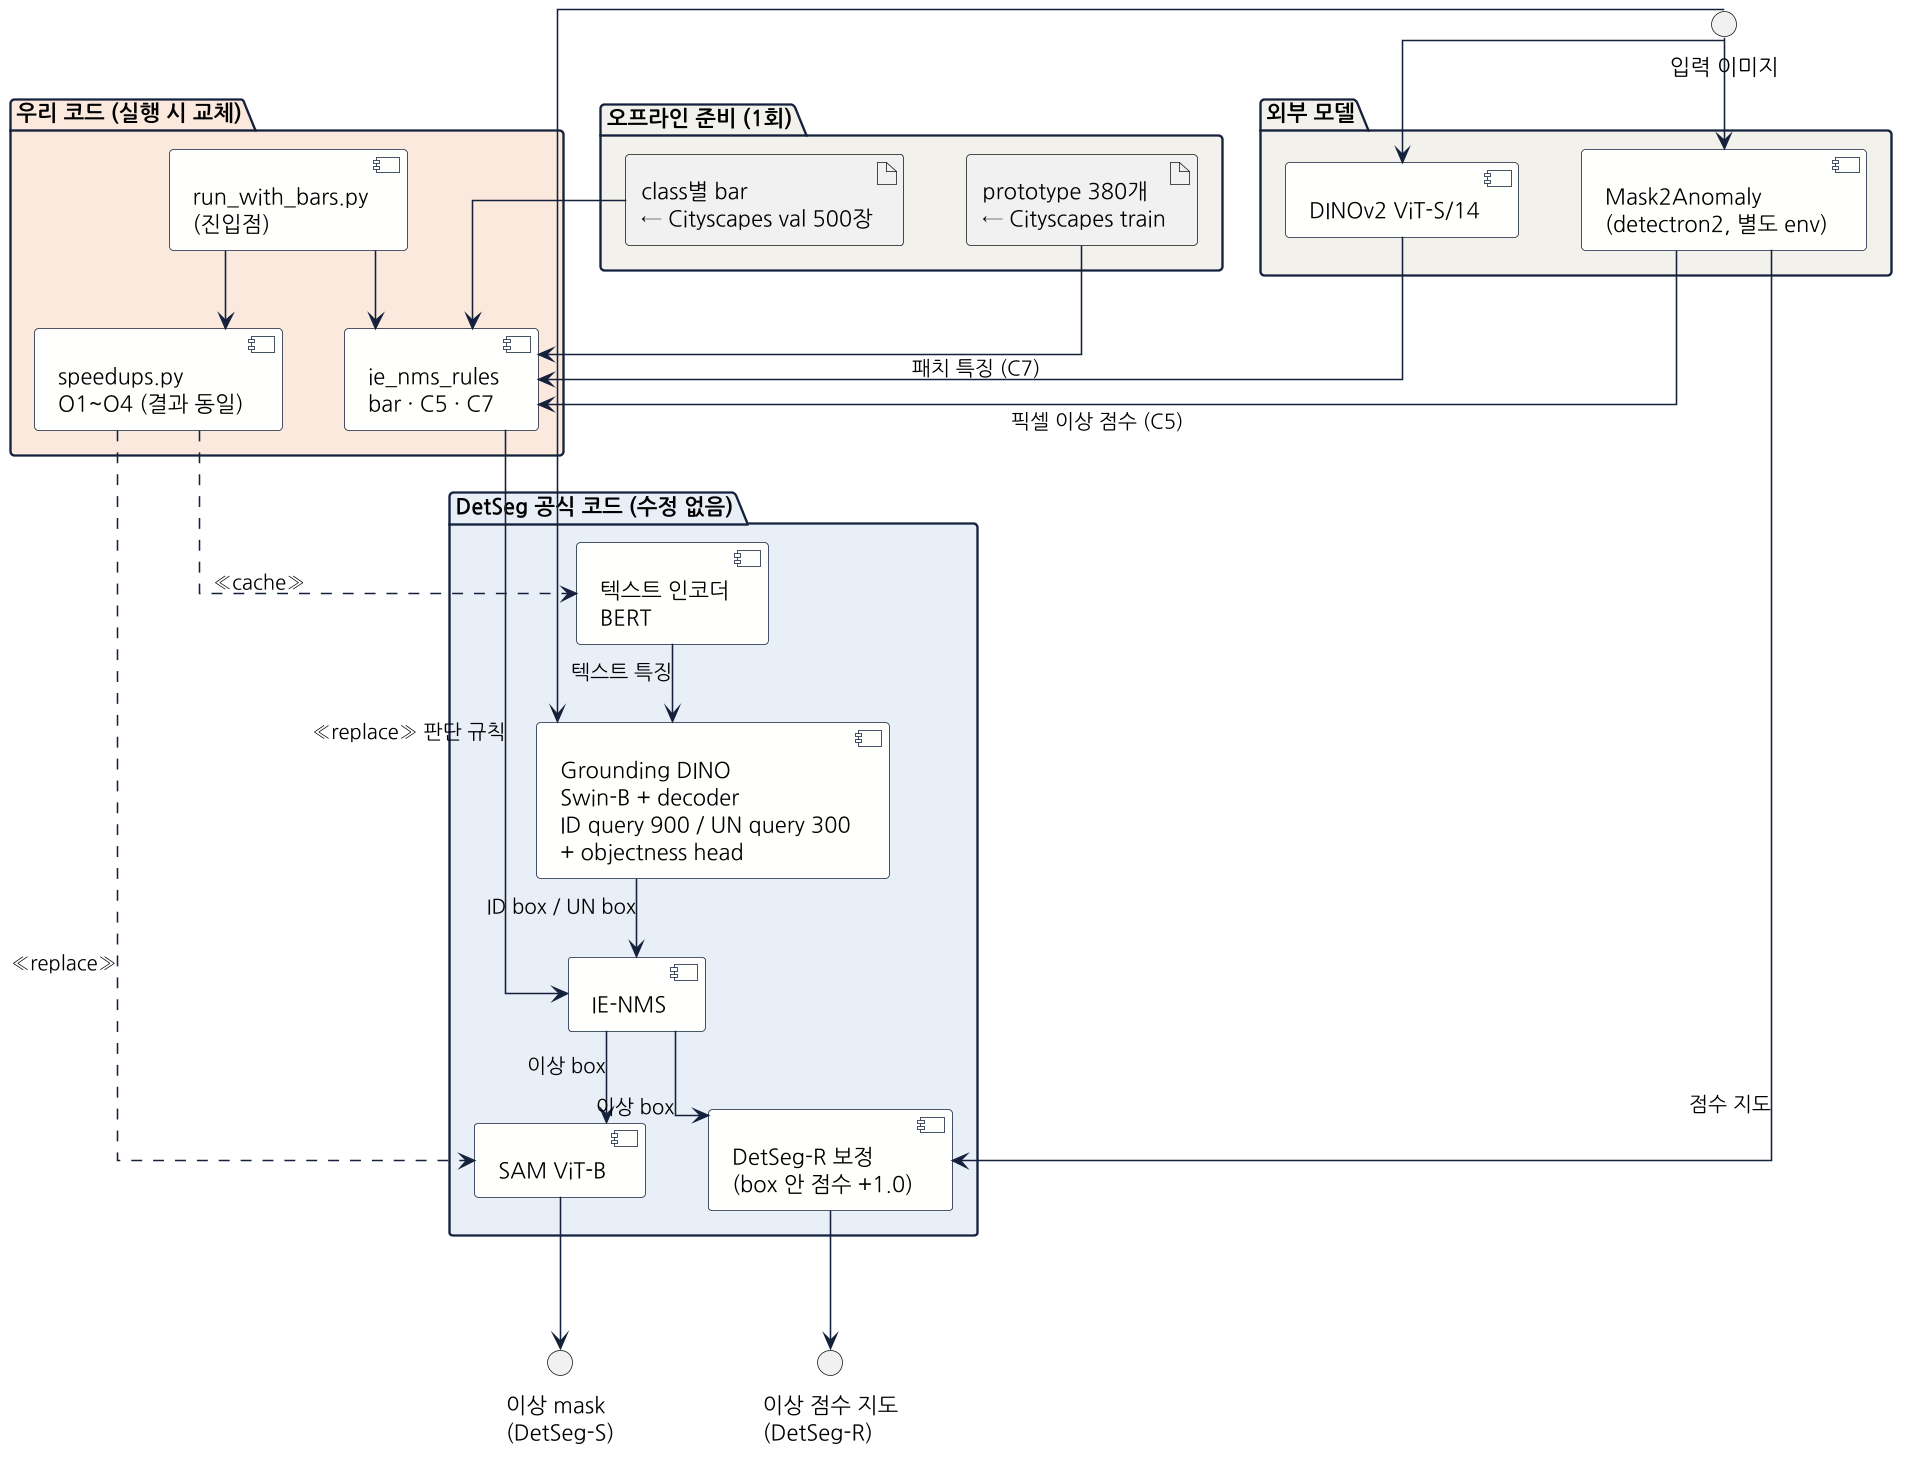
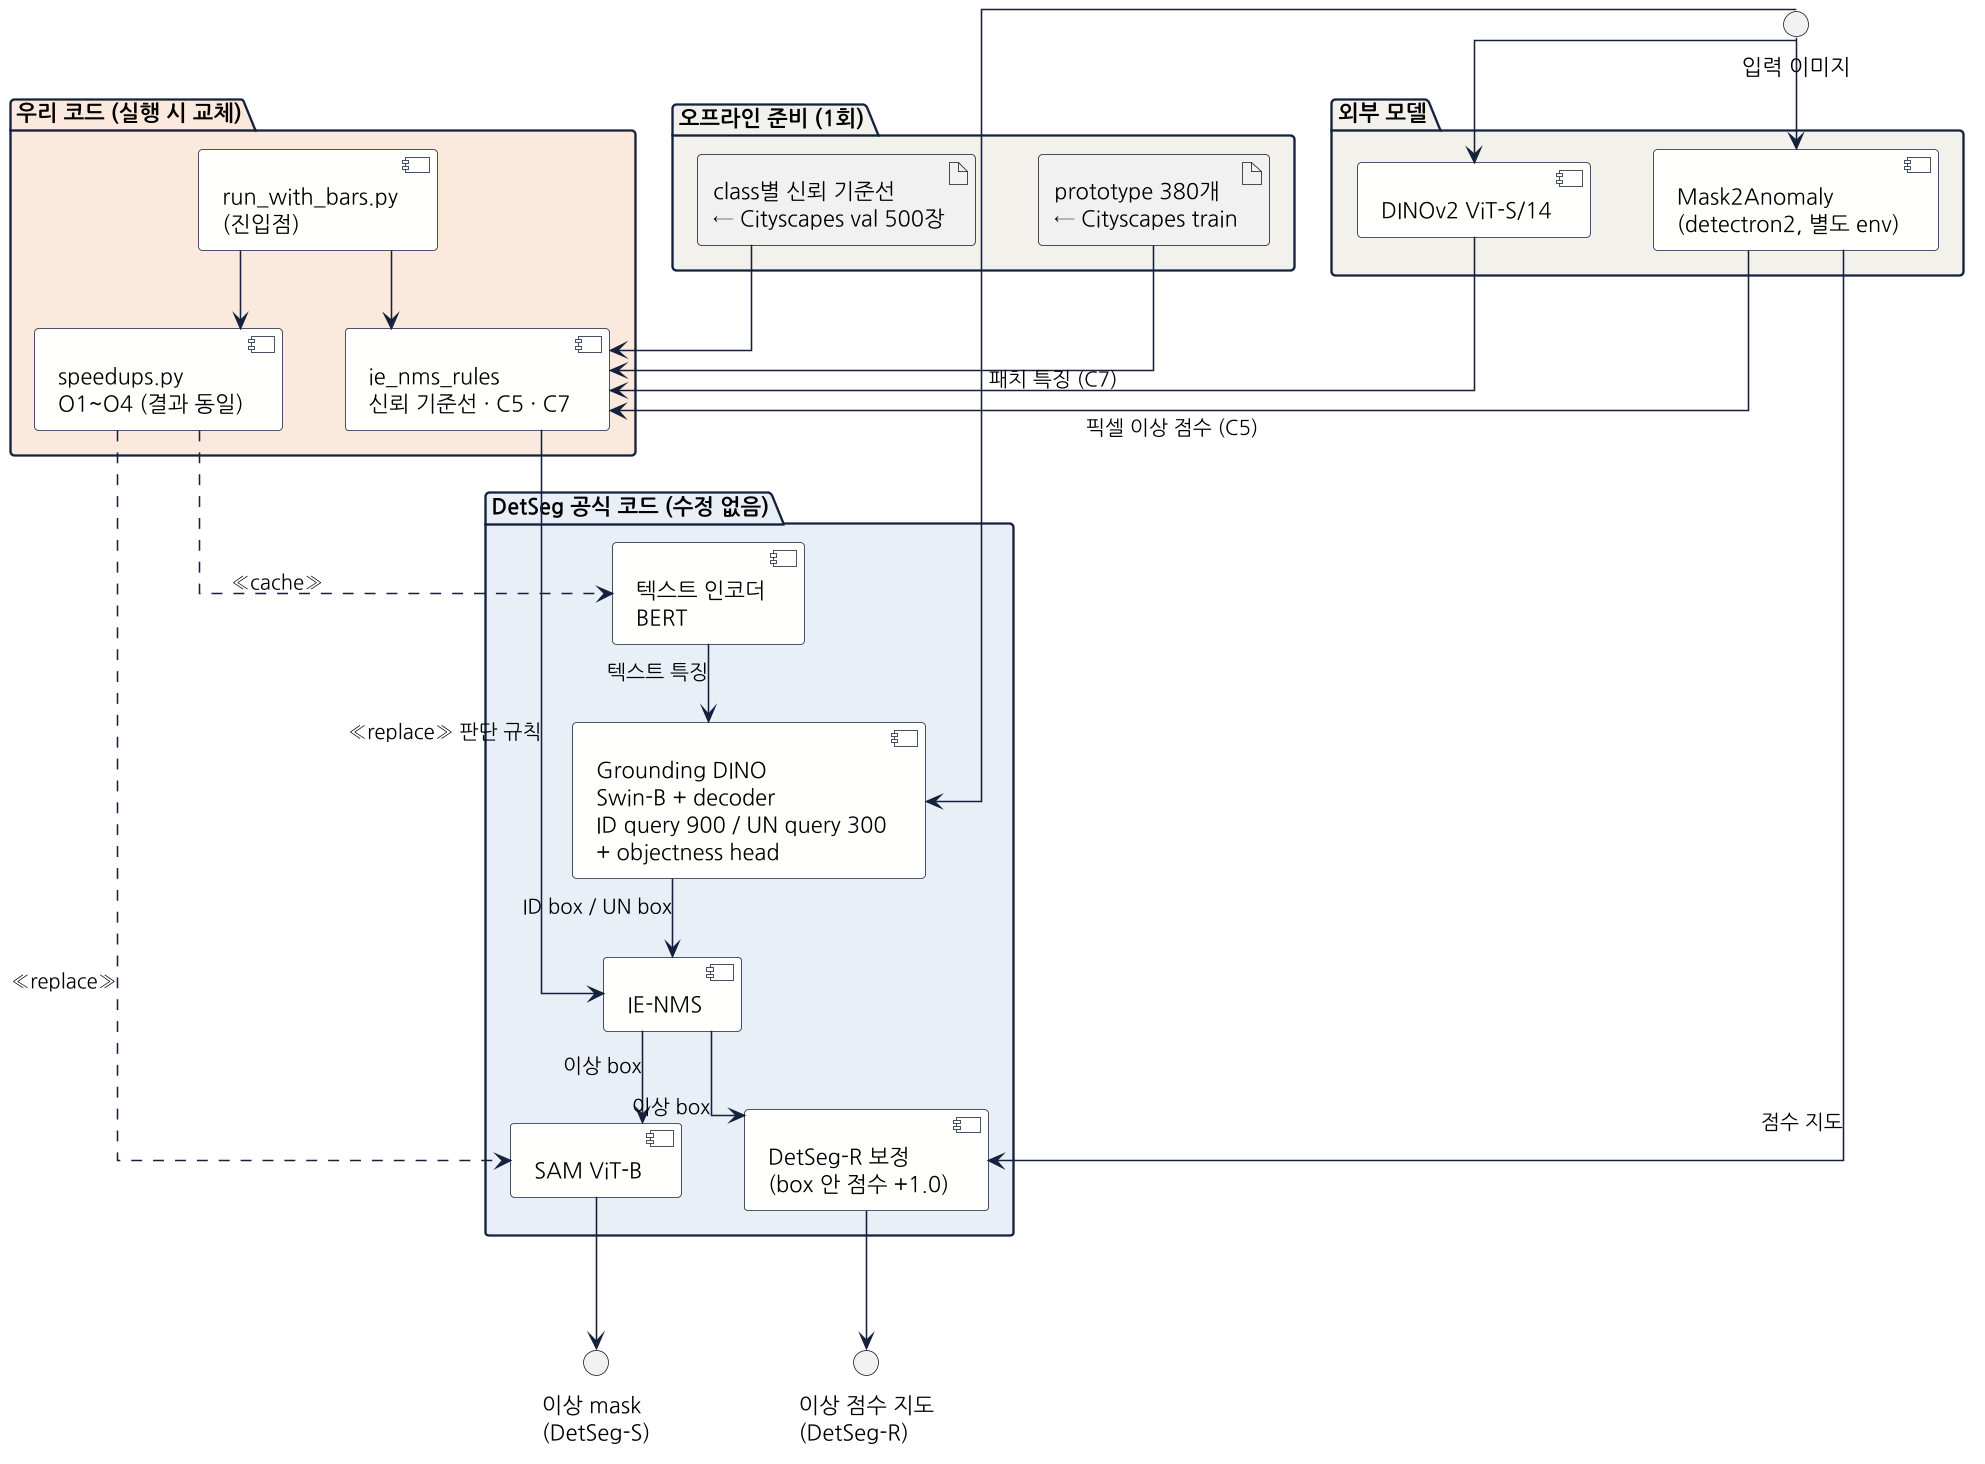
Report: plain-language term for IE-NMS bar (신뢰 기준선), baseline -> 베이스라인
Adds an easy explanation with a worked example; diagrams and figure labels updated.

diff --git a/src/make_qualitative.py b/src/make_qualitative.py
@@ -4,7 +4,7 @@ Per dataset, images are chosen by fixed rules (no hand picking):
   * the 2 images with the largest IoU gain of C5 over the paper-bar baseline
   * the 1 image with the largest IoU loss of C8 relative to C5 (failure case)
 Only images with a real change (> 1 IoU point) are picked.
-Each row: input with GT outline | released | paper bars (baseline) | C5 | C8,
+Each row: input with GT outline | released | baseline (paper-style bars) | C5 | C8,
 prediction in red, GT outline in green, void pixels (ignored by the metric) darkened,
 per-image IoU in the corner.
 Also writes per-image IoU of all methods to results/F1/per_image_iou.csv.
@@ -20,7 +20,7 @@ import numpy as np
 
 D = 'external/DetSeg-official/data'
 METHODS = [('released', '공개본'), ('paper', 'baseline (paper bars)'), ('c5', 'C5'), ('c8', 'C8')]
-LABELS = ['released', 'paper bars', 'C5', 'C8']
+LABELS = ['released', 'baseline', 'C5', 'C8']
 DATASETS = {
     'fs_lostfound': (f'{D}/FS_LostFound/images/{{}}.png', f'{D}/FS_LostFound/labels_masks/{{}}.png', 1),
     'road_anomaly': (f'{D}/RoadAnomaly/frames/{{}}.webp', f'{D}/RoadAnomaly/frames/{{}}.labels/labels_semantic.png', 2),
